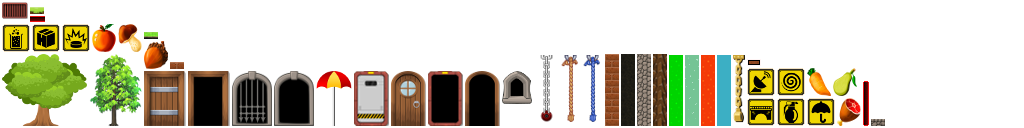
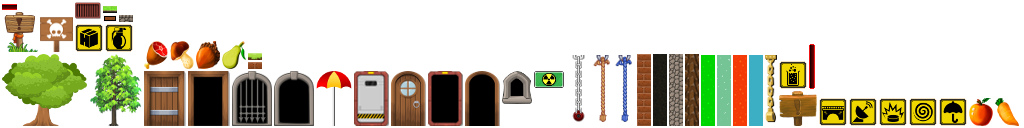
Added dynamic decorations support

Changed region(s): [[0.5, 0.3438, 1.0, 1.0], [0.0, 0.0, 0.2812, 0.5625]]

diff --git a/core/src/ru/mitrakov/self/rush/ui/Gui.java b/core/src/ru/mitrakov/self/rush/ui/Gui.java
@@ -78,6 +78,7 @@ public class Gui extends Actor {
     private final IntMap<AnimationData<Model.Character>> texturesAnimWolf =
             new IntMap<AnimationData<Model.Character>>(100);
     private final IntMap<Animation<TextureRegion>> animLadders = new IntMap<Animation<TextureRegion>>(STYLES_COUNT);
+    private final IntMap<Animation<TextureRegion>> decorations = new IntMap<Animation<TextureRegion>>(STYLES_COUNT);
     private final FloatArray animTime = new FloatArray(Field.HEIGHT * Field.WIDTH);
     private final ObjectSet<Class> heightOffsets = new ObjectSet<Class>(1);
     private final Animation<TextureRegion> animWaterfall;
@@ -214,10 +215,14 @@ public class Gui extends Actor {
         animFlare = new AnimInfo(new Animation<TextureRegion>(.09f, framesFlare));
         //
         TextureAtlas atlasLadder = assetManager.get("pack/ladder.pack");
+        TextureAtlas atlasDecors = assetManager.get("pack/decor.pack");
         for (int i = 0; i < STYLES_COUNT; i++) {
             // ladderBottom animations
             Array<TextureAtlas.AtlasRegion> frames = atlasLadder.findRegions(LadderBottom.class.getSimpleName() + i);
             animLadders.put(i, new Animation<TextureRegion>(.05f, frames));
+            // dynamic decorations
+            Array<TextureAtlas.AtlasRegion> frms = atlasDecors.findRegions(DecorationDynamic.class.getSimpleName() + i);
+            decorations.put(i, new Animation<TextureRegion>(.07f, frms, Animation.PlayMode.LOOP));
             // backgrounds
             backgrounds.add(assetManager.<Texture>get(String.format(Locale.getDefault(), "back/battle%d.jpg", i)));
         }
@@ -254,22 +259,24 @@ public class Gui extends Actor {
             drawBottom(field, batch);
             // draw 2-nd layer (static objects)
             drawObjects(field, batch);
-            // draw 3-rd layer (LadderBottom objects)
+            // draw 3-rd layer (dynamic decorations)
+            drawDynamicDecorations(field, batch);
+            // draw 4-rd layer (LadderBottom objects)
             drawLadderBottom(field, batch);
-            // draw 4-th layer (waterfalls)
+            // draw 5-th layer (waterfalls)
             drawWaterfalls(field, batch);
-            // draw 5-th layer (collectible objects)
+            // draw 6-th layer (collectible objects)
             drawObjects(field, batch, texturesCollectible);
-            // draw 6-th layer (antidotes, teleports)
+            // draw 7-th layer (antidotes, teleports)
             drawAnim(field, batch, Antidote.class, animAntidote);
             drawAnim(field, batch, Teleport.class, animTeleport);
             drawAnim(field, batch, Flashbang.class, animFlashbang);
             drawAnim(field, batch, Detector.class, animDetector);
-            // draw 7-th layer (animated characters)
+            // draw 8-th layer (animated characters)
             drawAnimatedObjects(field, batch, dt);
-            // draw 8-th layer (all overlaying objects like Umbrella)
+            // draw 9-th layer (all overlaying objects like Umbrella)
             drawObjects(field, batch, texturesOverlay);
-            // draw 9-th layer (smokes, explosions, aura)
+            // draw 10-th layer (smokes, explosions, aura)
             drawSingleAnim(animExplosion, batch, dt);
             drawSingleAnim(animSmoke, batch, dt);
             drawSingleAnim(animAura, batch, dt);
@@ -492,6 +499,28 @@ public class Gui extends Actor {
                         float x = convertXFromModelToScreen(i) - (texture.getRegionWidth() - bottomWidth) / 2;
                         float y = convertYFromModelToScreen(j) + bottomHeight;
                         batch.draw(texture, x, y);
+                    }
+                }
+            }
+        }
+    }
+
+    private void drawDynamicDecorations(Field field, Batch batch) {
+        // field != null (assert omitted)
+        for (int j = 0; j < Field.HEIGHT; j++) {
+            for (int i = 0; i < Field.WIDTH; i++) {
+                Cell cell = field.cells[j * Field.WIDTH + i]; // cell != NULL (assert omitted)
+                float bottomWidth = getBottomWidth(cell), bottomHeight = getBottomHeight(cell);
+                CellObject obj = cell.getFirst(DecorationDynamic.class);
+                if (obj != null) {
+                    Animation<TextureRegion> animation = decorations.get(model.stylePack);
+                    if (animation != null) {
+                        TextureRegion texture = animation.getKeyFrame(time);
+                        if (texture != null) {
+                            float x = convertXFromModelToScreen(i) - (texture.getRegionWidth() - bottomWidth) / 2;
+                            float y = convertYFromModelToScreen(j) + bottomHeight;
+                            batch.draw(texture, x, y);
+                        }
                     }
                 }
             }

diff --git a/core/src/ru/mitrakov/self/rush/Winesaps.java b/core/src/ru/mitrakov/self/rush/Winesaps.java
@@ -226,6 +226,7 @@ public class Winesaps extends Game {
         assetManager.load("pack/aura.pack", TextureAtlas.class);
         assetManager.load("pack/cat.pack", TextureAtlas.class);
         assetManager.load("pack/char.pack", TextureAtlas.class);
+        assetManager.load("pack/decor.pack", TextureAtlas.class);
         assetManager.load("pack/down.pack", TextureAtlas.class);
         assetManager.load("pack/effects.pack", TextureAtlas.class);
         assetManager.load("pack/flare.pack", TextureAtlas.class);
